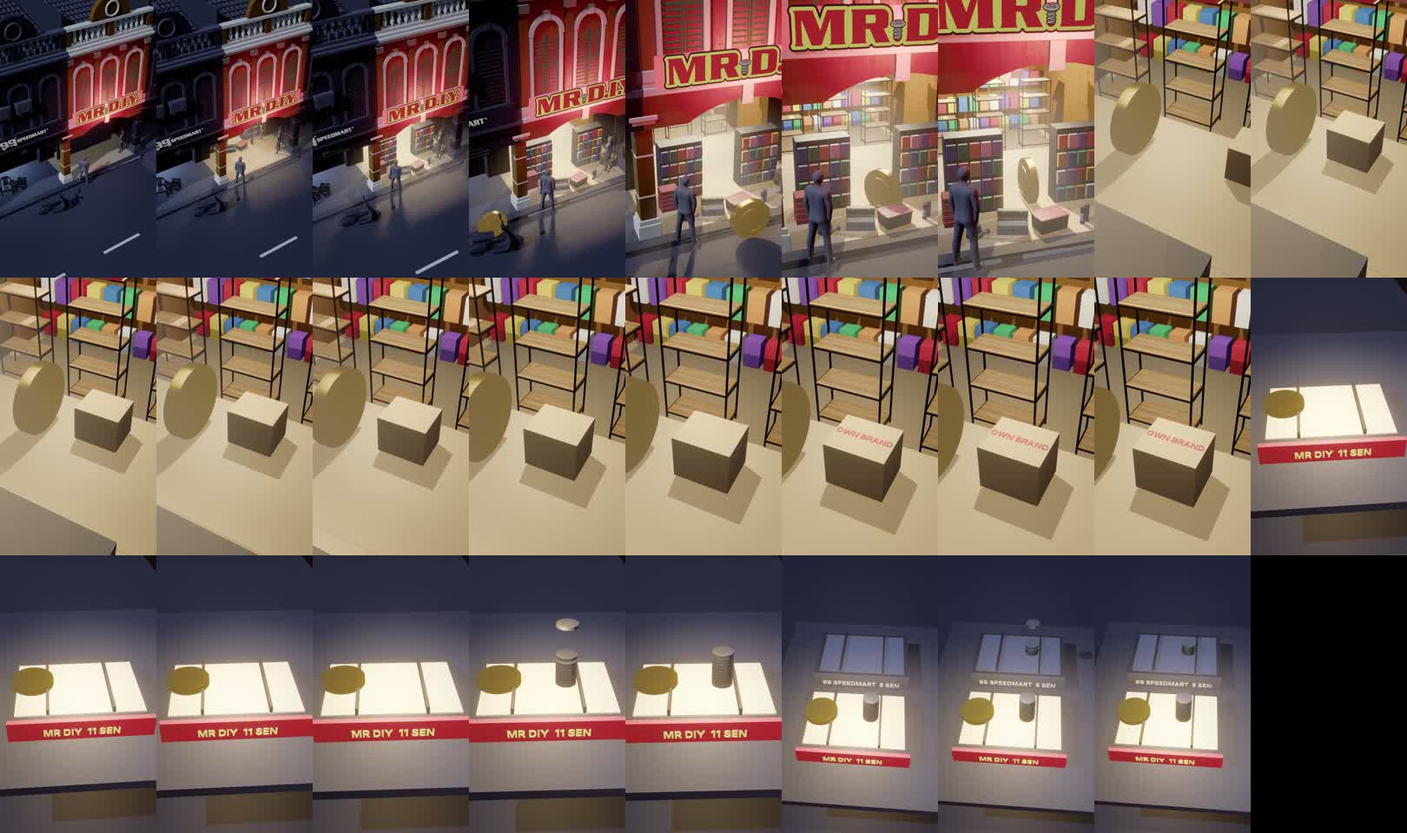
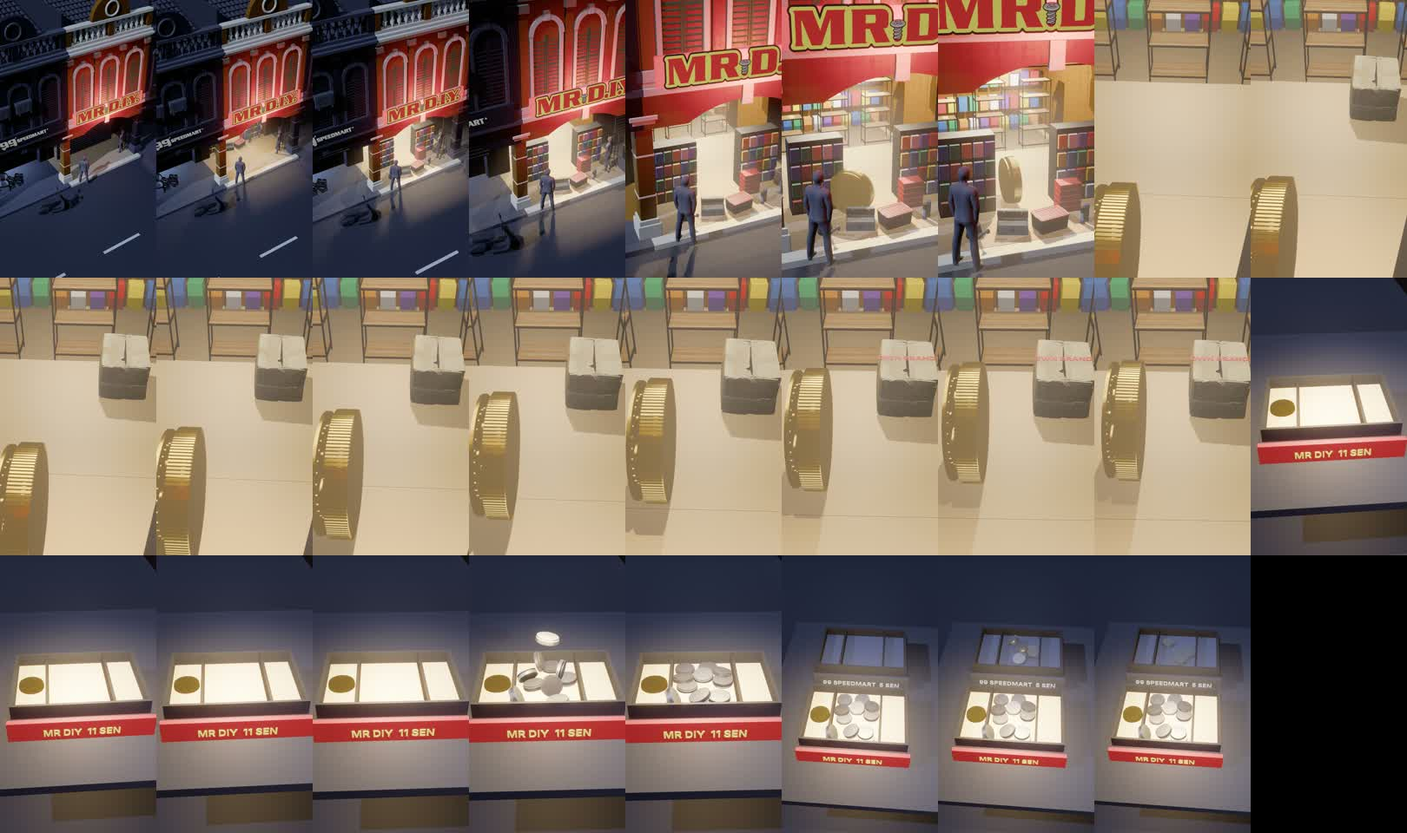
Style A video: no flicker (stable part count, kerb z-fight), Blender-baked coin physics, reeded coin, stamp + carton models, collision-free coin path

diff --git a/miki-explained/04_episodes/_tests/style-test-mrdiy/A2/video_a.tsx b/miki-explained/04_episodes/_tests/style-test-mrdiy/A2/video_a.tsx
@@ -10,6 +10,7 @@ import { Quat, Transform } from "raea/transform";
 import { Camera3d } from "raea/camera";
 import { Affine2 } from "raea/math";
 import { LinearRgba, Srgba } from "raea/color";
+import PHYS from "./media/phys_s3.json";
 
 const S = (p: string) => staticFile(p);
 const FPS = 30;
@@ -31,7 +32,20 @@ const so = () => (SO ??= {
   cap: manifold.roundedBox(0.5, 0.18, 0.5, 0.03),
   gableRound: manifold.cylinder(1.1, 0.25).move(0, 0, -0.125).intersect(manifold.box(2.4, 1.2, 0.4).move(-1.2, 0, -0.2)),
   gableStep: manifold.union(manifold.box(2.2, 0.4, 0.25).move(-1.1, 0, -0.125), manifold.box(1.3, 0.8, 0.25).move(-0.65, 0, -0.125)),
-  coin: manifold.cylinder(0.42, 0.13).move(0, 0, -0.065).minus(manifold.cylinder(0.34, 0.05).move(0, 0, 0.04)).minus(manifold.cylinder(0.34, 0.05).move(0, 0, -0.09)).union(manifold.cylinder(0.2, 0.11).move(0, 0, -0.055)).union(manifold.torus(0.27, 0.018).move(0, 0, 0.03)).union(manifold.torus(0.27, 0.018).move(0, 0, -0.03)),
+  // the token: reeded edge (120 ridges), raised rim, raised flower + ring of dots on both faces; axis along z
+  coin: (() => {
+    const R = 0.42, T = 0.13, cut: Solid[] = [];
+    for (let i = 0; i < 120; i++) cut.push(manifold.box(0.009, 0.03, T + 0.02).move(-0.0045, R - 0.012, -T / 2 - 0.01).rotate(0, 0, i * 3));
+    const P: Solid[] = [manifold.difference(manifold.cylinder(R, T).move(0, 0, -T / 2), ...cut)];   // reeded edge: 120 grooves
+    for (const s of [1, -1]) {
+      const z = s > 0 ? T / 2 : -T / 2 - 0.022, zl = s > 0 ? T / 2 : -T / 2 - 0.016;
+      P.push(manifold.cylinder(R - 0.016, 0.022).minus(manifold.cylinder(R - 0.06, 0.06).move(0, 0, -0.02)).move(0, 0, z));      // raised rim
+      for (let k = 0; k < 5; k++) P.push(manifold.cylinder(0.05, 0.016).scale(2, 1, 1).move(0.12, 0, 0).rotate(0, 0, 90 + k * 72).move(0, 0, zl));   // petals
+      P.push(manifold.cylinder(0.045, 0.024).move(0, 0, s > 0 ? T / 2 : -T / 2 - 0.024));                                            // centre boss
+      for (let k = 0; k < 28; k++) P.push(manifold.cylinder(0.017, 0.016).move(0.3, 0, zl).rotate(0, 0, k * 360 / 28));  // ring of beads
+    }
+    return manifold.union(...P);
+  })(),
   tank: manifold.cylinder(0.45, 1.1).rotate(-90, 0, 0),
   umbrella: manifold.cone(1.3, 0.02, 0.6).rotate(-90, 0, 0),
 });
@@ -47,9 +61,9 @@ const WhiteModel = ({ src, p, r = 0, s = 1, c = WHITE }: { src: string; p: [numb
 
 // roller shutter from slats (parts/shutter.glb doesn't draw in raea): h = how much is rolled down from the lintel at y 2.95
 function Shutter({ id, x, w, h, z, c }: { id: string; x: number; w: number; h: number; z: number; c: string }) {
-  if (h < 0.02) return null;
+  h = Math.max(h, 0.01);   // every part exists on every frame: raea matches parts in tree order, so a count that changes makes models swap (flicker)
   const P = [<B key={`${id}p`} p={[x, 2.95 - h / 2, z]} s={[w, h, 0.04]}><Flat c={c} r={0.5} /></B>];
-  for (let r = 0; r < 20; r++) { const y = 2.95 - h + 0.07 + r * 0.14; if (y < 2.92) P.push(<B key={`${id}s${r}`} p={[x, y, z + 0.03]} s={[w, 0.03, 0.03]}><Flat c={c} r={0.35} /></B>); }
+  for (let r = 0; r < 20; r++) { const y = 2.95 - h + 0.07 + r * 0.14; P.push(<B key={`${id}s${r}`} p={[x, Math.min(y, 2.9), z + 0.03]} s={[w, 0.03, 0.03]}><Flat c={c} r={0.35} /></B>); }
   return <>{P}</>;
 }
 
@@ -85,21 +99,21 @@ function Unit({ i, t: TNOW }: { i: number; t: number }) {
     const up = k(TNOW, 0.5, 1.5);
     // stock is wheeled out onto the five-foot way once the shutter is up (on "cheap")
     const out = (a: number) => -1.7 * (1 - k(TNOW, a, a + 0.7, Easing.out(Easing.cubic)));
-    const oR = out(1.4), oH = out(1.6), oC = out(1.8);
+    const oR = out(1.4), oH = out(1.6) - 0.2 * (1 - k(TNOW, 1.6, 2.3, Easing.out(Easing.cubic))), oC = out(1.8);   // hardware starts deeper (behind the shutter)
     const GC = ["#e3262b", "#ffd400", "#2f6fd6", "#3bb273", "#f28c28", "#ffffff", "#7a4fd1"];
     for (const sx of [x0 + 1.0, x0 + 2.3, x0 + 3.6]) P.push(<Model key={`shv${sx}`} src={S("parts/shelves.glb")} position={[sx, 0.15, -2.6]} scale={[0.75, 0.9, 0.75]} />);
     for (let r = 0; r < 4; r++) for (let j = 0; j < 12; j++) P.push(<B key={`bw${r}${j}`} p={[x0 + 0.55 + j * 0.32, 0.45 + r * 0.7, -4.1]} s={[0.25, 0.42, 0.28]}><Flat c={GC[(r * 5 + j) % GC.length]} r={0.5} /></B>);
-    for (const [rx] of [[x0 + 1.2], [x0 + 3.4]] as [number][]) {
+    for (const [rx] of [[x0 + 1.05], [x0 + 3.4]] as [number][]) {
       P.push(<B key={`rk${rx}`} p={[rx, 0.95, 0.75 + oR]} s={[1.1, 1.6, 0.4]}><Flat c="#2a2c31" r={0.5} /></B>);
       for (let lv = 0; lv < 4; lv++) for (let j = 0; j < 5; j++) P.push(<B key={`rg${rx}${lv}${j}`} p={[rx - 0.44 + j * 0.22, 0.35 + lv * 0.38, 0.98 + oR]} s={[0.18, 0.28, 0.1]}><Flat c={GC[(lv * 3 + j + (rx > x0 + 2 ? 2 : 0)) % GC.length]} r={0.45} /></B>);
     }
     for (const [m, x, z, r, sc] of [["watering_can_metal_01", x0 + 1.0, 1.75, 0.4, 1.6], ["metal_toolbox", x0 + 1.7, 1.8, -0.3, 1.4], ["plastic_container", x0 + 2.4, 1.85, 0.2, 0.7], ["spray_paint_bottles", x0 + 3.1, 1.85, 0.6, 1.5], ["Drill_01", x0 + 3.8, 1.8, 1.2, 1.6], ["cardboard_box_01", x0 + 4.1, 1.3, 0.3, 1.2]] as [string, number, number, number, number][])
       P.push(<Model key={`hw${m}`} src={S(`${m}/${m}.gltf`)} position={[x, 0.15, z + oH]} rotation={[0, r, 0]} scale={[sc, sc, sc]} />);
-    for (let c = 0; c < 6; c++) P.push(<Model key={`pc${c}`} src={S("plastic_crate_01/plastic_crate_01.gltf")} position={[x0 + 4.0 - (c % 2) * 0.5, 0.15 + Math.floor(c / 2) * 0.29, 0.5 + oC]} rotation={[0, 0.1 * c, 0]}><StandardMaterial base_color={["#2f6fd6", "#e3262b", "#3bb273"][c % 3]} /></Model>);
+    for (let c = 0; c < 6; c++) P.push(<Model key={`pc${c}`} src={S("plastic_crate_01/plastic_crate_01.gltf")} position={[x0 + 3.9 - (c % 2) * 0.5, 0.15 + Math.floor(c / 2) * 0.29, 0.5 + oC]} rotation={[0, 0.1 * c, 0]}><StandardMaterial base_color={["#2f6fd6", "#e3262b", "#3bb273"][c % 3]} /></Model>);
     P.push(<Shutter key="dshut" id="dsh" x={cx} w={W - 0.9} h={2.8 * (1 - up)} z={0.3} c="#5a5d66" />);
     for (let t = 0; t < 3; t++) { const on = k(TNOW, 1.2 + t * 0.15, 1.3 + t * 0.15, Easing.linear);
       P.push(<B key={`tube${t}`} p={[cx, 3.4, -0.6 - t * 1.3]} s={[2.6, 0.05, 0.1]}><Flat c="#ffffff" e={glow("#f2f8ff", 0.2 + 9 * on)} /></B>); }
-    for (let b = 0; b < 5; b++) P.push(<B key={`bk${b}`} p={[x0 + 0.75, 0.21 + b * 0.12, 1.2 + oC]} s={[0.45, 0.11, 0.32]}><Flat c="#e3262b" r={0.45} /></B>);
+    for (let b = 0; b < 5; b++) P.push(<B key={`bk${b}`} p={[x0 + 3.0, 0.21 + b * 0.12, 1.25 + oC]} s={[0.45, 0.11, 0.32]}><Flat c="#e3262b" r={0.45} /></B>);
   } else {
     P.push(<Shutter key="shut" id={`sh${i}`} x={cx} w={W - 0.9} h={spd ? 1.55 : 2.8} z={0.3} c={spd ? "#4e5058" : "#3e4047"} />);
     if (spd) P.push(<B key="sin" p={[cx, 1.5, -0.6]} s={[W - 0.9, 2.8, 0.1]}><Flat c="#1a1c22" e={glow("#7f9cff", 0.1)} /></B>);
@@ -112,7 +126,8 @@ const x1 = (x0: number) => x0 + W;
 function Street() {
   const L = UNITS.length * W, xm = UNITS[0] * W + L / 2;
   const P: any[] = [];
-  P.push(<B key="kerb" p={[xm, 0.08, AR + 0.15]} s={[L + 30, 0.16, 0.3]}><Flat c={WHITE2} /></B>);
+  P.push(<B key="kerb" p={[xm, 0.07, AR + 0.15]} s={[L + 30, 0.14, 0.28]}>   {/* inside the shophouse kerbs (y 0–0.15, z 2.2–2.5): coplanar faces z-fought */}
+    <Flat c={WHITE2} /></B>);
   P.push(<B key="road" p={[xm, -0.02, AR + 4.6]} s={[L + 60, 0.04, 8.6]}><Tiles n="asphalt_02" u={30} v={4} tint="#34363d" /></B>);
   for (let k = -10; k < 12; k++) P.push(<B key={`ln${k}`} p={[k * 4, 0.005, AR + 4.6]} s={[2, 0.01, 0.14]}><Flat c="#ffffff" /></B>);
   P.push(<B key="pv" p={[xm, 0.08, AR + 10]} s={[L + 60, 0.16, 2.2]}><Tiles n="concrete_tiles" u={40} v={2} /></B>);
@@ -126,10 +141,10 @@ function Street() {
   P.push(<Mesh3d key="umb" transform={Transform.fromXyz(-9.5, 2.5, AR + 9.6)} shape={so().umbrella}><Flat c={WHITE} /></Mesh3d>);
   P.push(<B key="stall" p={[-9.5, 0.6, AR + 9.6]} s={[1.8, 0.9, 1.0]}><Flat c={WHITE} /></B>);
   P.push(<Mesh3d key="pole" transform={Transform.fromXyz(-9.5, 1.4, AR + 9.6)}><Cylinder radius={0.03} half_height={1.2} /><Flat c={WHITE2} /></Mesh3d>);
-  for (const [x, z, r] of [[-3.6, 0.8, 0.5], [-3.0, 1.2, -0.3], [-12.4, 0.9, 0.2], [9.8, 0.7, 0.8]] as [number, number, number][])
+  for (const [x, z, r] of [[-3.6, 0.8, 0.5], [-3.0, 0.85, -0.3], [-12.4, 0.9, 0.2], [9.8, 0.7, 0.8]] as [number, number, number][])
     P.push(<WhiteModel key={`ch${x}`} src="plastic_monobloc_chair_01/plastic_monobloc_chair_01.gltf" p={[x, 0.12, z]} r={r} />);
   for (let c = 0; c < 3; c++) P.push(<WhiteModel key={`cr${c}`} src="plastic_crate_01/plastic_crate_01.gltf" p={[-6.6, 0.12 + c * 0.29, 0.6]} r={c * 0.2} />);
-  for (const x of [-14.6, -5.1, 9.4]) P.push(<WhiteModel key={`pp${x}`} src="potted_plant_02/potted_plant_02.gltf" p={[x, 0.12, AR - 0.55]} s={1.3} c={WHITE2} />);
+  for (const x of [-14.6, -5.1, 9.4]) P.push(<WhiteModel key={`pp${x}`} src="potted_plant_02/potted_plant_02.gltf" p={[x, 0.12, x === -5.1 ? 0.55 : AR - 0.55]} s={1.3} c={WHITE2} />);
   // the white city behind: real library buildings, repainted white, fading into the haze
   for (const [src, x, z, sc, r] of [["skyscraper_k.glb", -16, -75, 11, 0.3], ["skyscraper_k.glb", 22, -82, 12.5, 0], ["skyscraper_k.glb", -4, -95, 15, 0.6]] as [string, number, number, number, number][])
     P.push(<WhiteModel key={`bg${x}`} src={src} p={[x, 0, z]} r={r} s={sc} />);
@@ -146,35 +161,43 @@ function Street() {
     const wx = bx - 4 + ((k * 37) % 9), wy = 2 + ((k * 53) % 26), on = (k * 7) % 3 !== 0;
     if (on) P.push(<B key={`lw${k}`} p={[wx, wy, bz + 5.6]} s={[0.9, 0.6, 0.05]}><Flat c="#ffcf8a" e={glow("#ffb867", 1.4)} /></B>);
   }
-  for (let c = 0; c < 4; c++) P.push(<WhiteModel key={`cr2${c}`} src="plastic_crate_01/plastic_crate_01.gltf" p={[-2.6 + (c % 2) * 0.45, 0.12 + Math.floor(c / 2) * 0.29, 1.2]} r={c * 0.3} />);
+  for (let c = 0; c < 4; c++) P.push(<WhiteModel key={`cr2${c}`} src="plastic_crate_01/plastic_crate_01.gltf" p={[-2.6 + (c % 2) * 0.45, 0.12 + Math.floor(c / 2) * 0.29, 0.85]} r={c * 0.3} />);
   P.push(<WhiteModel key="ht2" src="hand_truck/hand_truck.gltf" p={[4.2, 0.12, 1.4]} r={-0.6} />);
   P.push(<Model key="vs" src={S("parts/vespa.glb")} position={[-6.5, 0.12, 1.4]} rotation={[0, 1.2, 0]}><StandardMaterial base_color={WHITE2} /></Model>);
   P.push(<Model key="vsp" src={S("parts/vespa.glb")} position={[-1.6, 0.0, AR + 1.3]} rotation={[0, 1.3, 0]}><StandardMaterial base_color={WHITE2} /></Model>);
   // people hold poses (house rule): MPFB figures, faceless, charcoal clay
-  for (const [src, x, z, r] of [["s_m30", 0.7, 2.6, 2.4], ["s_f25", 3.9, 1.6, -2.6], ["s_m50", -9.0, AR + 9.0, 0.3], ["s_f35", -8.3, AR + 9.4, -2.4], ["s_m30", -4.2, 1.1, 0.9], ["s_f25", 10.8, AR + 9.6, -0.4]] as [string, number, number, number][])
+  for (const [src, x, z, r] of [["s_m30", 0.7, 2.6, 2.4], ["s_f25", 3.9, 1.6, -2.6], ["s_m50", -9.0, AR + 9.0, 0.3], ["s_f35", -8.3, AR + 9.4, -2.4], ["s_m30", -4.2, 0.75, 0.9], ["s_f25", 10.8, AR + 9.6, -0.4]] as [string, number, number, number][])
     P.push(<Model key={`pp${src}${x}`} src={S(`people/${src}.glb`)} position={[x, 0.12, z]} rotation={[0, r, 0]}><StandardMaterial base_color="#55585f" perceptual_roughness={0.7} /></Model>);
   return <>{P}</>;
 }
 
 // ---------- S3 set: the till drawers, away from the street (x = 60; at x = 200 frames rendered black) ----------
 const DX = 60;
-function Drawers({ t }: { t: number }) {
+// coin drops baked with Blender's rigid-body engine (phys_bake.py → media/phys_s3.json): real falls, bounces and settling
+const PH = PHYS as { f0: number; coins: Record<string, { release: number; r: number; frames: number[][] }> };
+const phys = (n: string, f: number) => { const c = PH.coins[n]; const v = c.frames[Math.max(0, Math.min(c.frames.length - 1, f - PH.f0))];
+  return { p: [DX + v[0], v[1], v[2]] as [number, number, number], q: [v[3], v[4], v[5], v[6]] as [number, number, number, number], s: c.r / 0.42, grow: k(f, c.release, c.release + 4, Easing.out(Easing.quad)) }; };
+function Drawers({ t, f }: { t: number; f: number }) {
   const P: any[] = [];
   P.push(<B key="ctr" p={[DX + 0.9, 0.9, -0.7]} s={[4.6, 0.1, 3.8]}><Tiles n="concrete_tiles" u={3} v={2} tint="#3a3c43" /></B>);
-  const drawer = (x: number, zz: number, warm: boolean, n: number, t0: number, label: string, name: string) => {
-    const g: any[] = [];
-    g.push(<B key={`${name}b`} p={[x, 1.05, zz]} s={[1.5, 0.22, 1.1]}><Flat c={warm ? "#2a2c31" : "#24262c"} /></B>);
+  // a till drawer: tray, two dividers, side and end walls (the same boxes phys_bake.py collides with)
+  const drawer = (x: number, zz: number, warm: boolean, label: string, name: string) => {
+    const g: any[] = [], wall = warm ? "#2a2c31" : "#24262c";
+    g.push(<B key={`${name}b`} p={[x, 1.05, zz]} s={[1.5, 0.22, 1.1]}><Flat c={wall} /></B>);
     g.push(<B key={`${name}in`} p={[x, 1.165, zz]} s={[1.36, 0.02, 0.96]}><Flat c={warm ? "#ffd9a0" : "#3a4258"} e={warm ? glow("#ffbf6a", 1.1) : glow("#7f9cff", 0.12)} /></B>);
-    for (const dx of [-0.34, 0.34]) g.push(<B key={`${name}d${dx}`} p={[x + dx, 1.2, zz]} s={[0.03, 0.08, 0.96]}><Flat c="#1b1c20" /></B>);
+    for (const dx of [-0.34, 0.34]) g.push(<B key={`${name}d${dx}`} p={[x + dx, 1.235, zz]} s={[0.03, 0.15, 0.96]}><Flat c="#1b1c20" /></B>);
+    for (const sx of [-0.695, 0.695]) g.push(<B key={`${name}wl${sx}`} p={[x + sx, 1.235, zz]} s={[0.03, 0.17, 0.96]}><Flat c={wall} /></B>);
+    for (const sz of [-0.495, 0.495]) g.push(<B key={`${name}wb${sz}`} p={[x, 1.235, zz + sz]} s={[1.42, 0.17, 0.03]}><Flat c={wall} /></B>);
     g.push(<B key={`${name}fr`} p={[x, 1.05, zz + 0.58]} s={[1.5, 0.26, 0.06]}><Flat c={warm ? "#d92128" : "#3c3f47"} e={warm ? glow("#ff3a2a", 0.6) : undefined} /></B>);
     g.push(<Mesh3d key={`${name}lb`} transform={Transform.fromXyz(x, 1.05, zz + 0.62)}><Text3D size={0.11} depth={0.01}>{label}</Text3D><Flat c={warm ? "#ffe600" : "#b9bcc4"} e={warm ? glow("#ffe600", 1.4) : undefined} /></Mesh3d>);
-    for (let i = 0; i < n; i++) { const u = k(t, t0 + i * 0.09, t0 + i * 0.09 + 0.18, Easing.out(Easing.quad));
-      if (u > 0) g.push(<Mesh3d key={`${name}c${i}`} transform={Transform.fromXyz(x + 0.2, lerp(2.2, 1.2 + i * 0.035, u), zz - 0.05).withRotation(Quat.fromEuler("XYZ", 0, i, 0))}><Cylinder radius={0.11} half_height={0.016} /><StandardMaterial base_color="#c9cbd1" metallic={1} perceptual_roughness={0.3} /></Mesh3d>); }
     return g;
   };
-  P.push(...drawer(DX, 0, true, 11, 20.6, "MR DIY  11 SEN", "a"));
+  P.push(...drawer(DX, 0, true, "MR DIY  11 SEN", "a"));
   const sl = k(t, 22.45, 22.95, Easing.out(Easing.cubic));
-  P.push(...drawer(DX + lerp(4.5, 0, sl), -1.45, false, 5, 24.05, "99 SPEEDMART  5 SEN", "b"));
+  P.push(...drawer(DX + lerp(4.5, 0, sl), -1.45, false, "99 SPEEDMART  5 SEN", "b"));
+  // the sen coins: always present (hidden until released), each grows in over its first frames of fall
+  for (const n of Object.keys(PH.coins)) { if (n === "token") continue; const c = phys(n, f), sc = c.s * Math.max(0.001, c.grow);
+    P.push(<Mesh3d key={n} name={`sen_${n}`} transform={Transform.fromXyz(...c.p).withRotation(c.q).withScale([sc, sc, sc])} shape={so().coin}><StandardMaterial base_color="#c9cbd1" metallic={1} perceptual_roughness={0.45} /></Mesh3d>); }
   return <>{P}</>;
 }
 
@@ -186,15 +209,21 @@ function Shot() {
   const doorX = DIY * W + W / 2;
   // the coin: S1 rolls along the five-foot way to the door and through it; S2 rolls down the aisle and drops; S3 falls into the drawer
   let coin: [number, number, number] = [0, 0, 0], roll = 0, yaw = -Math.PI / 2, tilt = 0;
-  if (s1) { const u = k(t, 0, 6.6, Easing.inOut(Easing.quad)); const x = lerp(-9.5, doorX, Math.min(1, u * 1.25)); const z = u < 0.8 ? AR + 0.75 : lerp(AR + 0.75, 0.6, (u - 0.8) / 0.2);
-    coin = [x, 0.57, z]; roll = -x / 0.48; yaw = u < 0.8 ? 0 : -Math.PI / 2 * ((u - 0.8) / 0.2); }
-  if (s2) { const u = k(t, 7.05, 16.4, Easing.inOut(Easing.quad)); coin = [doorX - 0.35, 0.72, lerp(0.6, -1.5, u)]; roll = lerp(0, 9, u); yaw = -Math.PI / 2;
-    const d = k(t, 16.4, 16.9, Easing.in(Easing.quad)); coin = [doorX - 0.35, lerp(0.72, -0.8, d), -1.5]; tilt = d * 1.2; }
-  if (s3) { const d = k(t, 17.01, 17.5, Easing.out(Easing.cubic)); coin = [DX - 0.5, lerp(2.4, 1.2, d), -0.05]; yaw = 0; roll = 0; tilt = Math.PI / 2 * d; }
+  if (s1) { // the path by distance: straight along the five-foot way, then a quarter arc (r 0.8) into the door
+    const CR = 0.483, CY = 0.15 + CR, xa = doorX - 0.35 - 0.8, L1 = xa + 9.5, L = L1 + Math.PI / 2 * 0.8;
+    const d = L * k(t, 0, 6.6, Easing.inOut(Easing.quad));
+    if (d < L1) { coin = [-9.5 + d, CY, 1.4]; yaw = 0; }
+    else { const ph = (d - L1) / 0.8; coin = [xa + 0.8 * Math.sin(ph), CY, 0.6 + 0.8 * Math.cos(ph)]; yaw = -ph; }
+    roll = -d / CR; }
+  if (s2) { const u = k(t, 7.05, 16.4, Easing.inOut(Easing.quad)); const z = lerp(0.6, -0.95, u); roll = -(0.6 - z) / 0.483; yaw = -Math.PI / 2;   // rolls without slipping
+    const a = Math.PI / 2 * k(t, 16.4, 16.9, Easing.in(Easing.quad));   // topples about its bottom edge
+    coin = [doorX - 0.35 + 0.483 * Math.sin(a) - 0.1 * Math.cos(a) + 0.1, 0.15 + 0.483 * Math.cos(a) + 0.1 * Math.sin(a), z]; tilt = -a; }   // falls toward the carton, stops short of it
+  let q: [number, number, number, number] | null = null;
+  if (s3) { const c = phys("token", f); coin = c.p; q = c.q; }
   // camera per shot
   let cam: [number, number, number], look: [number, number, number], focus = 20;
   if (s1) { const u = k(t, 0, 7.05); cam = L3([-8.6, 15.5, 16.5], [doorX - 2.5, 4.2, 8.5], u); look = L3([1.0, 2.2, 1.6], [doorX, 1.3, 0.0], u); focus = lerp(21, 9, u); }
-  else if (s2) { const u = k(t, 7.05, 17.01); cam = L3([doorX + 2.0, 3.4, 1.6], [doorX + 1.5, 2.8, 0.4], u); look = L3([doorX + 0.2, 0.5, -1.6], [doorX + 0.1, 0.3, -2.6], u); focus = lerp(4.1, 3.6, u);
+  else if (s2) { const u = k(t, 7.05, 17.01); cam = L3([doorX + 0.15, 2.8, 1.9], [doorX + 0.1, 2.5, 1.2], u); look = L3([doorX, 0.4, -0.9], [doorX + 0.05, 0.3, -1.4], u);   /* in the doorway, under the lintel (y 2.95) */   /* coin lane and carton both in frame */ focus = lerp(4.1, 3.6, u);
     }
   else { const u = k(t, 17.01, 22.2), v = k(t, 22.3, 23.2); cam = L3(L3([DX - 0.25, 3.5, 3.25], [DX - 0.1, 3.2, 3.1], u), [DX + 0.3, 5.0, 3.2], v); /* stay > 3 m from the drawer light: inside its range the frame renders black */ look = L3([DX, 1.1, 0.05], [DX, 1.0, -0.65], v); focus = lerp(2.9, 4.6, v); }
   // the carton and the own-brand stamp (S2)
@@ -218,7 +247,7 @@ function Shot() {
       <PointLight transform={Transform.fromXyz(DX, 2.0, 0.2)} intensity={300000} color="#ffcf8a" range={3} />
       <SpotLight transform={Transform.fromXyz(DX + 0.8, 4.5, 1.5).lookingAt([DX + 0.8, 1, 0])} intensity={900000} outer_angle={0.6} inner_angle={0.2} color="#b9c9ff" range={8} shadow_maps_enabled />
       <VolumetricFog ambient={0.02} ambientColor="#2a3550" />
-      <FogVolume name="haze" position={[2, 2.5, AR + 2]} scale={[30, 5, 12]} density={0.035} color="#c9d4ff" scattering={0.6} anisotropy={0.6} falloff={0.6} />
+      <FogVolume name="haze" position={[2, 2.5, AR + 2]} scale={[30, 5, 12]} density={s2 ? 0.008 : 0.035} color="#c9d4ff" scattering={0.6} anisotropy={0.6} falloff={0.6} />
       <Fog color="#14161c" near={40} far={120} />
       <Bloom intensity={0.9} threshold={0.9} />
       <AmbientOcclusion quality="high" />
@@ -227,11 +256,11 @@ function Shot() {
       <Street />
       {UNITS.map((i) => <Unit key={i} i={i} t={t} />)}
       {/* S2: carton slides in on the hand truck line, the stamp drops OWN BRAND on it */}
-      <B p={[lerp(doorX + 2.6, doorX + 0.5, cartonIn), 0.45, -1.8]} s={[0.6, 0.5, 0.5]}><StandardMaterial base_color="#c9a26a" perceptual_roughness={0.8} /></B>
-      <B p={[doorX + 0.5, lerp(2.4, 0.86, Math.max(0, stamp)), -1.8]} s={[0.3, 0.2, 0.3]}><Flat c="#d92128" r={0.4} /></B>
-      <Mesh3d transform={Transform.fromXyz(doorX + 0.5, 0.705, -1.8).withRotation(Quat.fromEuler("XYZ", -Math.PI / 2, 0, 0)).withScale([label, label, label])}><Text3D size={0.09} depth={0.004}>OWN BRAND</Text3D><Flat c="#d92128" e={glow("#ff3a2a", 0.4)} /></Mesh3d>
-      <Drawers t={t} />
-      <Mesh3d name="coin" transform={Transform.fromXyz(...coin).withRotation(Quat.fromEuler("YXZ", yaw, tilt, roll)).withScale([s3 ? 0.55 : 1.15, s3 ? 0.55 : 1.15, s3 ? 0.55 : 1.15])} shape={so().coin}>
+      <Model src={S("cardboard_box_01/cardboard_box_01.gltf")} position={[lerp(doorX + 2.6, doorX + 0.5, cartonIn), 0.21, -1.85]} scale={[1.5, 1.5, 1.5]} />   {/* Poly Haven carton, top at y 0.70 */}
+      <Model src={S("parts/stamp.glb")} position={[doorX + 0.5, lerp(2.4, 0.708, Math.max(0, stamp)), -1.8]} scale={[0.8, 0.8, 0.8]} />   {/* Rubber Stamp, Poly by Google (CC-BY), stamp.py */}
+      <Mesh3d castShadow={false} transform={Transform.fromXyz(doorX + 0.5, 0.705, -1.8).withRotation(Quat.fromEuler("XYZ", -Math.PI / 2, 0, 0)).withScale([label, label, label])}><Text3D size={0.09} depth={0.004}>OWN BRAND</Text3D><Flat c="#d92128" e={glow("#ff3a2a", 0.4)} /></Mesh3d>
+      <Drawers t={t} f={f} />
+      <Mesh3d name="coin" transform={Transform.fromXyz(...coin).withRotation(q ?? Quat.fromEuler("YXZ", yaw, tilt, roll)).withScale([s3 ? 0.14 / 0.42 : 1.15, s3 ? 0.14 / 0.42 : 1.15, s3 ? 0.14 / 0.42 : 1.15])} shape={so().coin}>
         <StandardMaterial base_color="#e3b04a" metallic={1} perceptual_roughness={0.22} emissive={glow("#ffb347", 0.25)} /></Mesh3d>
     </AbsoluteFill>
   );

diff --git a/miki-explained/04_episodes/_tests/style-test-mrdiy/A2/phys_bake.py b/miki-explained/04_episodes/_tests/style-test-mrdiy/A2/phys_bake.py
@@ -1,0 +1,87 @@
+# Bakes the S3 coin drops with Blender's rigid-body engine (Bullet) → media/phys_s3.json, played back by video_a.tsx.
+# Drawers sit at their final places, relative to the S3 set's origin (DX): Mr DIY's at z 0, 99's at z -1.45 (raea).
+# Coins are held (kinematic) until their release frame, then fall for real: they hit the tray, bounce, tilt and settle.
+# Axes: raea x = Blender x, raea y = Blender z, raea z = -Blender y.
+# blender -b -P phys_bake.py
+import bpy, json, math, random
+from mathutils import Quaternion, Vector
+
+OUT = "/Users/user/Private/miki-studio/miki-explained/04_episodes/_tests/style-test-mrdiy/A2/media/phys_s3.json"
+FPS, F0, F1 = 30, 505, 780            # bake 16.8 s → 26 s (S3 starts 17.01 s)
+G = 9.81 * 3                          # the drawers are ~5x life size; stronger gravity keeps coins feeling small and quick
+random.seed(3)
+
+bpy.ops.wm.read_factory_settings(use_empty=True)
+sc = bpy.context.scene
+sc.render.fps = FPS; sc.frame_start = F0; sc.frame_end = F1
+bpy.ops.rigidbody.world_add()
+rw = sc.rigidbody_world
+rw.substeps_per_frame = 60; rw.solver_iterations = 60
+rw.point_cache.frame_start = F0; rw.point_cache.frame_end = F1
+sc.gravity = (0, 0, -G)
+
+def R(x, y, z):                       # raea → Blender location
+    return (x, -z, y)
+
+def box(name, cx, cy, cz, sx, sy, sz):  # raea centre + size → static collider
+    bpy.ops.mesh.primitive_cube_add(size=1, location=R(cx, cy, cz))
+    o = bpy.context.active_object; o.name = name; o.scale = (sx, sz, sy)
+    bpy.ops.object.transform_apply(location=False, rotation=False, scale=True)   # keep the origin: Bullet centres a BOX on it
+    bpy.ops.rigidbody.object_add(); o.rigid_body.type = "PASSIVE"; o.rigid_body.collision_shape = "BOX"
+    o.rigid_body.friction = 0.6; o.rigid_body.restitution = 0.1; o.rigid_body.collision_margin = 0.002
+    return o
+
+def drawer(n, zz):                    # mirrors Drawers() in video_a.tsx (tray, dividers, walls)
+    box(f"{n}_tray", 0, 1.165, zz, 1.36, 0.02, 0.96)
+    for dx in (-0.34, 0.34): box(f"{n}_div{dx}", dx, 1.235, zz, 0.03, 0.15, 0.96)
+    for sx in (-0.695, 0.695): box(f"{n}_wl{sx}", sx, 1.235, zz, 0.03, 0.17, 0.96)
+    for sz in (-0.495, 0.495): box(f"{n}_wb{sz}", 0, 1.235, zz + sz, 1.42, 0.17, 0.03)
+
+drawer("diy", 0.0); drawer("spd", -1.45)
+
+COINS = []                            # (name, radius, release frame, raea start x, y, z)
+COINS.append(("token", 0.14, 511, -0.545, 3.4, -0.02))                       # the travelling coin into Mr DIY's left slot
+# small coins wait in a column (0.13 apart so none touch); each is released so it lands on its beat
+def column(tag, n, land0, zz, y0):
+    for i in range(n):
+        y = y0 + 0.13 * i; fall = math.sqrt(2 * (y - 1.2) / G)
+        COINS.append((f"{tag}{i}", 0.11, round((land0 + i * 0.09 - fall) * FPS), random.uniform(-0.1, 0.1), y, zz + random.uniform(-0.2, 0.15)))
+column("a", 11, 20.75, 0.0, 2.2)     # "eleven" at 20.73 s (each coin grows in over its first frames of fall)
+column("b", 5, 24.15, -1.45, 2.2)    # "five" at 24.15 s
+
+objs = {}
+for name, r, rel, x, y, z in COINS:
+    t = r * 0.13 / 0.42                # same proportions as the raea token
+    bpy.ops.mesh.primitive_cylinder_add(vertices=20, radius=r, depth=t, location=R(x, y, z))
+    o = bpy.context.active_object; o.name = name
+    o.rotation_mode = "XYZ"; o.rotation_euler = (random.uniform(-0.25, 0.25), random.uniform(-0.25, 0.25), random.uniform(0, 6.28))
+    bpy.ops.rigidbody.object_add(); rb = o.rigid_body
+    rb.type = "ACTIVE"; rb.collision_shape = "CONVEX_HULL"; rb.use_margin = True; rb.mass = 0.01 * (r / 0.11) ** 2
+    rb.friction = 0.6; rb.restitution = 0.05; rb.collision_margin = 0.001
+    rb.linear_damping = 0.1; rb.angular_damping = 0.4
+    rb.use_deactivation = True; rb.deactivate_linear_velocity = 0.15; rb.deactivate_angular_velocity = 0.6   # settled coins sleep (no jitter)
+    rb.enabled = True; rb.kinematic = True   # held until release
+    o.keyframe_insert("location", frame=F0); o.keyframe_insert("rotation_euler", frame=F0)
+    rb.keyframe_insert("kinematic", frame=rel - 1)
+    rb.kinematic = False; rb.keyframe_insert("kinematic", frame=rel)
+    objs[name] = (o, rel)
+
+bpy.ops.ptcache.bake_all(bake=True)
+
+# local fix: the raea token's axis is z; Blender's cylinder axis is local Z (→ raea y). q_local turns raea z onto raea y.
+QL = Quaternion((1, 0, 0), -math.pi / 2)
+out = {"fps": FPS, "f0": F0, "coins": {}}
+for name, (o, rel) in objs.items():
+    fr = []
+    for f in range(F0, F1 + 1):
+        sc.frame_set(f)
+        m = o.matrix_world; p = m.to_translation(); q = m.to_quaternion()
+        # Blender → raea basis change: raea = B * blender, B maps (x, y, z) → (x, z, -y)
+        qb = Quaternion((math.cos(-math.pi / 4), math.sin(-math.pi / 4), 0, 0))   # -90° about X
+        qr = qb @ q @ qb.inverted()
+        qf = qr @ QL
+        fr.append([round(p.x, 4), round(p.z, 4), round(-p.y, 4), round(qf.x, 5), round(qf.y, 5), round(qf.z, 5), round(qf.w, 5)])
+    out["coins"][name] = {"release": rel, "r": [c for c in COINS if c[0] == name][0][1], "frames": fr}
+    last = fr[-1]; print("COIN", name, "rel", rel, "end", last[:3])
+json.dump(out, open(OUT, "w"))
+print("WROTE", OUT)

diff --git a/miki-explained/04_episodes/_tests/style-test-mrdiy/A2/stamp.py b/miki-explained/04_episodes/_tests/style-test-mrdiy/A2/stamp.py
@@ -1,0 +1,38 @@
+# Builds media/parts/stamp.glb (Poly Pizza "Rubber Stamp" by Poly by Google, CC-BY: base on y=0, height 0.45 m, red pad).
+# blender -b -P stamp.py
+import bpy, bmesh, math
+from mathutils import Vector, Matrix
+D = "/Users/user/Private/miki-studio/miki-explained/04_episodes/_tests/style-test-mrdiy/A2/media/parts/"
+
+def clear():
+    bpy.ops.wm.read_factory_settings(use_empty=True)
+
+def mat(name, col, metal, rough):
+    m = bpy.data.materials.new(name); m.use_nodes = True
+    b = m.node_tree.nodes["Principled BSDF"]
+    b.inputs["Base Color"].default_value = (*col, 1); b.inputs["Metallic"].default_value = metal; b.inputs["Roughness"].default_value = rough
+    return m
+
+# ---------- stamp ----------
+clear()
+bpy.ops.import_scene.gltf(filepath=D + "stamp_src.glb")
+obs = [o for o in bpy.context.scene.objects if o.type == "MESH"]
+for o in obs: o.select_set(True)
+bpy.context.view_layer.objects.active = obs[0]
+if len(obs) > 1: bpy.ops.object.join()
+ob = bpy.context.view_layer.objects.active
+bpy.ops.object.transform_apply(location=True, rotation=True, scale=True)
+cs = [ob.matrix_world @ Vector(c) for c in ob.bound_box]
+mn = Vector([min(c[i] for c in cs) for i in range(3)]); mx = Vector([max(c[i] for c in cs) for i in range(3)])
+print("STAMP src", [round(v, 3) for v in mn], [round(v, 3) for v in mx], [m.name for m in ob.data.materials])
+sc = 0.45 / (mx.z - mn.z)
+ob.location = (-(mn.x + mx.x) / 2 * sc, -(mn.y + mx.y) / 2 * sc, -mn.z * sc + 0.02); ob.scale = (sc, sc, sc)
+bpy.ops.object.transform_apply(location=True, scale=True)
+w = (mx.x - mn.x) * sc * 0.92; d = (mx.y - mn.y) * sc * 0.92
+bpy.ops.mesh.primitive_cube_add(size=1, location=(0, 0, 0.01)); pad = bpy.context.active_object
+pad.scale = (w, d, 0.02); bpy.ops.object.transform_apply(scale=True)
+pad.data.materials.append(mat("pad", (0.75, 0.05, 0.06), 0.0, 0.7))
+for o in (ob, pad): o.select_set(True)
+cs = [ob.matrix_world @ Vector(c) for c in ob.bound_box]
+print("STAMP out", [round(min(c[i] for c in cs), 3) for i in range(3)], [round(max(c[i] for c in cs), 3) for i in range(3)])
+bpy.ops.export_scene.gltf(filepath=D + "stamp.glb", export_format="GLB", use_selection=True, export_yup=True)

diff --git a/miki-explained/04_episodes/_tests/style-test-mrdiy/A2/phys_check.py b/miki-explained/04_episodes/_tests/style-test-mrdiy/A2/phys_check.py
@@ -1,0 +1,14 @@
+# Accepts a bake when every coin ends in its compartment and is still once settled (sign-aware quaternion change).
+import json, sys
+d = json.load(open("media/phys_s3.json")); bad = []
+for n, c in d["coins"].items():
+    fr = c["frames"]; e = fr[-1]; r = c["release"] - d["f0"]
+    land = next((i for i in range(r, len(fr)) if fr[i][1] < 1.32), None)
+    if land is None: bad.append(n); continue
+    def dq(a, b):
+        s = sum(x * y for x, y in zip(a[3:], b[3:])); return 1 - abs(s)          # 0 when the rotations match
+    jit = max((sum(abs(fr[i][j] - fr[i - 1][j]) for j in range(3)) + dq(fr[i], fr[i - 1]) for i in range(land + 30, len(fr))), default=0)
+    zz = -1.45 if n[0] == "b" else 0.0
+    inside = (-0.68 < e[0] < -0.355) if n == "token" else abs(e[0]) < 0.33
+    if not (inside and abs(e[2] - zz) < 0.48 and 1.15 < e[1] < 1.4 and jit < 0.002): bad.append(f"{n}(x{e[0]:.2f} j{jit:.4f})")
+print(len(bad), bad)

diff --git a/miki-explained/04_episodes/_tests/style-test-mrdiy/A2/frames_check.py b/miki-explained/04_episodes/_tests/style-test-mrdiy/A2/frames_check.py
@@ -1,0 +1,14 @@
+# After a PNG-sequence render: lists all-black frames (GPU glitch) and one-frame flicker suspects.
+# uv run --with pillow --with numpy python frames_check.py media/full_frames [cut frames...]
+import sys, glob
+import numpy as np
+from PIL import Image
+fs = sorted(glob.glob(sys.argv[1] + "/*.png")); cuts = {int(c) for c in sys.argv[2:]}
+a = [np.asarray(Image.open(f).convert("L").resize((270, 480)), float) for f in fs]
+black = [i for i, x in enumerate(a) if x.mean() < 3]
+flick = []
+for i in range(2, len(a) - 1):
+    if {i - 1, i, i + 1} & cuts or {i - 1, i, i + 1} & set(black): continue
+    d1 = np.abs(a[i] - a[i - 1]).mean(); d2 = np.abs(a[i + 1] - a[i - 1]).mean()
+    if d1 > 0.4 and d1 > 1.5 * d2: flick.append(i)
+print("BLACK", ",".join(map(str, black)) or "-"); print("FLICKER", ",".join(map(str, flick)) or "-")

diff --git a/miki-explained/00_bible/WORKING-RULES.md b/miki-explained/00_bible/WORKING-RULES.md
@@ -71,6 +71,7 @@ Change a locked trait only when the user says so by name. "Make it better" never
 
 | Date | What I showed | Verdict (user's words) | Lesson |
 |---|---|---|---|
+| 2026-11-09 | A video preview v1 (26 s, voice-timed) | "flickering … at the shops curb … on 0:18 … some object pass through other object. that defeat realism … the coin can receive more detail … the stamp should be stamp glb" | Physics bake, flicker causes (§6), reeded coin, real stamp model. |
 | 2026-11-09 | A v3 lighting test: white / dark / dusk | "i actually like dark better" | Style A world = dark, the business is the light. |
 | 2026-11-09 | A v2: eye-level realistic street in raea | "should it be isometric with white building and world… this is completely opposite" | Fix the named dimension; never swap the style. |
 | 2026-11-09 | C v1: EX26 pipeline (camera push over plates, amber flash) | "exactly the same before we did the analysis… you learned nothing… this is simple camera movement" | Design from the bibles' motion rules; plates are references to recreate. |
@@ -100,6 +101,7 @@ Change a locked trait only when the user says so by name. "Make it better" never
 | Flat motion (Style B) | HyperFrames | `flat-v3-playbook.md`. |
 | Plates and video (Style C) | Seedream / Seedance (the user generates from my prompts) | Prompts short (memory `short-generation-prompts`). |
 | Captions | raea `tools/raea/kit/Captions.tsx` (EX15) | — |
+| Physics (drops, bounces, settling) | **Blender rigid body (Bullet) baked** → JSON → raea plays it back (`_tests/style-test-mrdiy/A2/phys_bake.py`, `phys_check.py`) | User 2026-11-09: objects must never pass through each other. Pick a seed that passes the check (every body in place, still once settled). |
 
 ## 7. The shot loop (adopted 2026-11-09 from the user's multi-engine brief)
 
@@ -123,6 +125,7 @@ Every shot, every style, in this order. No step skipped, no "final quality" clai
 | MaterialCraft / TextureCraft | Procedural PBR materials / painted texture sets, exported as map sets | Rendering scenes |
 | EffectCraft | Effects/compositing for what raea can't do (ask first) | Default part of the pipeline |
 | Seedream / Seedance (user runs) | Plates; image-to-video between keyframes | Exact numbers, exact object paths |
+| raea + avian physics | Real physics in a render | A body spawned mid-shot arrives already settled; switching body type panics → can't time a drop to a word. Bake in Blender instead |
 | Style C hybrid (to test) | raea renders depth / outline / colour-ID passes → Seedance stylises with exact layout and motion | Unverified until a test shows Seedance accepts those passes |
 
 ## 6. My known failure patterns (check myself against these)
@@ -133,3 +136,9 @@ Every shot, every style, in this order. No step skipped, no "final quality" clai
 - **Showing work without checking it against the user's named feedback** and the image they referred to.
 - **Over-claiming quality** ("final quality") before the gates pass.
 - **Judging my own renders**: always run the independent critic (§7.5).
+- **Objects passing through each other** (coin through kerb, floor, man, stock through the shutter): check every path
+  against every prop's footprint; use baked physics for anything that falls.
+- **Flicker** (user 2026-11-09): (1) a part count that changes between frames makes raea re-match parts in tree order,
+  so models swap every other frame: keep every part on every frame (hide by tiny scale), name moving parts;
+  (2) coplanar faces z-fight (two kerbs); (3) a physics body that never settles; (4) rare all-black GPU frames in long
+  renders: render to PNGs, find black frames, re-render them with `--at`. Run the flicker check before showing.
